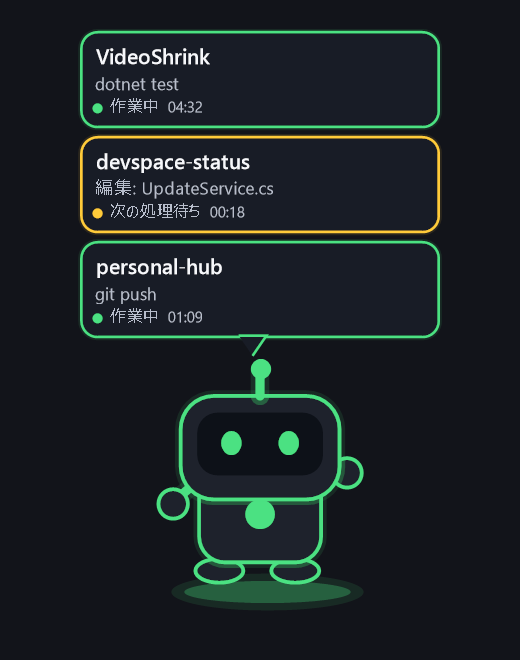
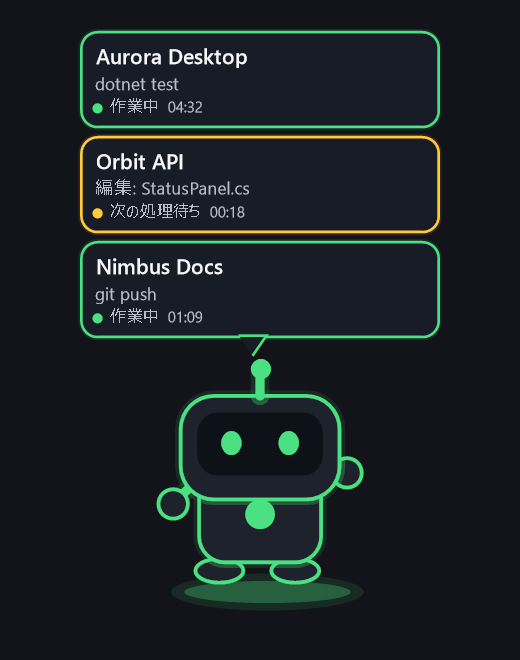
Prepare v0.1.3 stable release

Changed region(s): [[0.1846, 0.2121, 0.5231, 0.303], [0.1846, 0.0606, 0.4615, 0.1212], [0.1846, 0.3939, 0.4308, 0.4242]]

diff --git a/src/DevSpaceStatusPet/UI/PreviewCapture.cs b/src/DevSpaceStatusPet/UI/PreviewCapture.cs
@@ -93,7 +93,7 @@ internal static class PreviewCapture
             Location = new Point(-10000, -10000),
             ShowInTaskbar = false
         };
-        form.SetUpdateStatus("0.1.2", localizer["UpToDate"]);
+        form.SetUpdateStatus("0.1.3", localizer["UpToDate"]);
         using var client = RenderControl(form);
         using var output = RenderWindowFrame(
             client,
@@ -107,13 +107,13 @@ internal static class PreviewCapture
         var settings = CreatePreviewSettings(PetTheme.Classic);
         var store = new SettingsStore(settings);
         var localizer = new Localizer(() => store.Current);
-        using var updateService = new UpdateService("0.1.1");
+        using var updateService = new UpdateService("0.1.2");
         var release = new UpdateRelease(
-            "0.1.2",
-            "v0.1.2",
-            "DevSpace Status Pet v0.1.2",
-            "https://github.com/n5-5n/devspace-status-pet/releases/tag/v0.1.2",
-            "## v0.1.2\r\n\r\n- GitHubから最新版を確認\r\n- ZIPとSHA-256を検証して安全に更新\r\n- Stable／Prereleaseを選択可能\r\n- GitHubプレビューを刷新",
+            "0.1.3",
+            "v0.1.3",
+            "DevSpace Status Pet v0.1.3",
+            "https://github.com/n5-5n/devspace-status-pet/releases/tag/v0.1.3",
+            "## v0.1.3\r\n\r\n- モニターカードを正式追加\r\n- 実機とプレビューの描画を統一\r\n- 公開用サンプルを架空プロジェクトへ変更\r\n- ZIPとSHA-256を検証して安全に更新",
             false,
             DateTimeOffset.Now,
             "https://example.invalid/update.zip",
@@ -211,14 +211,14 @@ internal static class PreviewCapture
         IncludePrereleaseUpdates = false
     };
 
-    private static DevSpaceSnapshot CreateSampleSnapshot()
+    internal static DevSpaceSnapshot CreateSampleSnapshot()
     {
         var now = DateTimeOffset.Now;
         var activities = new[]
         {
             new DevSpaceActivity(
-                "preview:videoshrink",
-                "VideoShrink",
+                "preview:aurora",
+                "Aurora Desktop",
                 ActivityState.Working,
                 OperationKind.Dotnet,
                 "dotnet test",
@@ -226,21 +226,21 @@ internal static class PreviewCapture
                 TimeSpan.FromMinutes(4).Add(TimeSpan.FromSeconds(32)),
                 false,
                 true,
-                "ws_preview_video"),
+                "ws_preview_aurora"),
             new DevSpaceActivity(
-                "preview:status-pet",
-                "devspace-status",
+                "preview:orbit",
+                "Orbit API",
                 ActivityState.Waiting,
                 OperationKind.Edit,
-                "UpdateService.cs",
+                "StatusPanel.cs",
                 now.AddSeconds(-18),
                 TimeSpan.FromSeconds(18),
                 false,
                 true,
-                "ws_preview_pet"),
+                "ws_preview_orbit"),
             new DevSpaceActivity(
-                "preview:hub",
-                "personal-hub",
+                "preview:nimbus",
+                "Nimbus Docs",
                 ActivityState.Working,
                 OperationKind.Git,
                 "git push",
@@ -248,7 +248,7 @@ internal static class PreviewCapture
                 TimeSpan.FromMinutes(1).Add(TimeSpan.FromSeconds(9)),
                 false,
                 true,
-                "ws_preview_hub")
+                "ws_preview_nimbus")
         };
         return new DevSpaceSnapshot(
             ActivityState.Working,

diff --git a/tests/DevSpaceStatusPet.Smoke/Program.cs b/tests/DevSpaceStatusPet.Smoke/Program.cs
@@ -452,12 +452,22 @@ var cleanCardBorder = PetForm.ResolveCleanCardBorder(BubbleColorTheme.Dark);
 Check(cleanCardBackground != cleanCardBorder, "clean monitor-card single border contrast");
 Check(cleanCardBorder.GetBrightness() > cleanCardBackground.GetBrightness(), "clean monitor-card border remains subtle and visible");
 
+var previewSample = PreviewCapture.CreateSampleSnapshot();
+var expectedPreviewProjects = new[] { "Aurora Desktop", "Orbit API", "Nimbus Docs" };
+Check(
+    previewSample.Activities.Select(activity => activity.ProjectName).SequenceEqual(expectedPreviewProjects),
+    "public preview uses fictional sample projects");
+var expectedPreviewDetails = new[] { "dotnet test", "StatusPanel.cs", "git push" };
+Check(
+    previewSample.Activities.Select(activity => activity.Detail).SequenceEqual(expectedPreviewDetails),
+    "public preview uses only approved generic operation details");
+
 var renderNow = DateTimeOffset.Now;
 var renderActivities = new[]
 {
     new DevSpaceActivity(
         "render-working",
-        "VideoShrink",
+        "Aurora Desktop",
         ActivityState.Working,
         OperationKind.Dotnet,
         "dotnet test",
@@ -466,10 +476,10 @@ var renderActivities = new[]
         WorkspaceId: "ws-render-working"),
     new DevSpaceActivity(
         "render-waiting",
-        "devspace-status",
+        "Orbit API",
         ActivityState.Waiting,
         OperationKind.Edit,
-        "PetForm.cs",
+        "StatusPanel.cs",
         renderNow.AddSeconds(-18),
         TimeSpan.FromSeconds(18),
         WorkspaceId: "ws-render-waiting")

diff --git a/RELEASE_NOTES.md b/RELEASE_NOTES.md
@@ -1,35 +1,41 @@
-# DevSpace Status Pet v0.1.3-alpha.3
+# DevSpace Status Pet v0.1.3
 
-実機だけカードやロボットの外周が紫色に見えていた問題を修正しました。
+v0.1.3は、モニターカードと実機描画の改善を正式版へ昇格したリリースです。
 
-## 原因
+## 新しい表示デザイン
 
-これまでは透明部分をマゼンタ色で塗り、その色をWindowsのカラーキーで抜いていました。角丸や斜線のアンチエイリアス部分ではマゼンタと描画色が混ざるため、完全には透明にならず、実機だけ紫色の縁が残っていました。
+- 標準吹き出し
+- モニターカード（ネオン）
+- モニターカード（クリーン）
+- ライト／ダーク配色との自由な組み合わせ
+- 保存操作なしの即時切り替え
 
-GitHubプレビューは暗い背景へ直接描画していたため、この問題が発生せず、実機と見た目が一致していませんでした。
-
-## 修正
+## 実機描画の改善
 
 - マゼンタのカラーキー透過を廃止
 - Windowsのピクセル単位アルファ透過へ移行
-- 実機とGitHubプレビューで同じ透明レイヤーを使用
-- 半透明のアンチエイリアス境界を正しい色と透明度で表示
-- 透明背景に適さないClearTypeをアルファ対応の文字描画へ変更
-- サイズ設定と不透明度設定を新しいレイヤー描画でも維持
+- 実機とGitHubプレビューを同じ描画経路へ統一
+- 角丸や斜線に出ていた紫色のフリンジを解消
+- 半透明アンチエイリアスと文字描画を改善
 
-これにより、クリーンカードの中立色1px枠、状態ライン、クラシックロボットの輪郭色がGitHubプレビューと同じ見た目になります。
+## 公開プレビューのプライバシー改善
 
-## バージョン番号の正規化
+GitHubで使用するすべてのプレビューを、実在しない次のサンプルプロジェクトへ置き換えました。
 
-更新ごとにパッチ番号を1つ上げる運用へ統一しました。旧`v0.3.0-alpha.3`と同じコードを、正規化後の`v0.1.3-alpha.3`として公開しています。
+- Aurora Desktop
+- Orbit API
+- Nimbus Docs
+
+実在するローカル／非公開リポジトリ名、ユーザー名、個人パスはプレビューに含まれません。今後も許可した架空プロジェクト名と汎用処理だけが使われることを自動テストします。
 
 ## 検証
 
 - Releaseビルド：警告0、エラー0
-- 透明レイヤーの表示ピクセル：検出成功
-- 半透明アンチエイリアス境界：検出成功
-- マゼンタ系フリンジ：0ピクセル
 - Clean／Neonカード描画：成功
-- 設定移行と並列表示の既存回帰テスト：成功
+- ピクセル単位アルファ透過：成功
+- マゼンタ系フリンジ：0ピクセル
+- 公開プレビューの架空サンプル検査：成功
+- 設定移行、並列表示、自己インストール／アンインストール：成功
+- GitHub Windows CI：成功
 
-これはPrereleaseです。実機表示を確認した後、問題がなければv0.1.3正式版へ昇格します。
+既存の設定、ペット位置、自動起動設定はそのまま引き継がれます。

diff --git a/README.en.md b/README.en.md
@@ -4,8 +4,7 @@
 
 A Windows monitor that shows DevSpace activity through a system-tray icon and an animated desktop pet.
 
-> **Stable release: v0.1.2 (C# / .NET 8 single executable)**<br>
-> **Development build: v0.1.3-alpha.3 (matching live and preview rendering)**<br>
+> **Stable release: v0.1.3 (C# / .NET 8 single executable)**<br>
 > The legacy PowerShell v0.1.0 release remains available on GitHub Releases as a rollback option.
 
 ## Features
@@ -55,7 +54,7 @@ No separate .NET Runtime installation or PowerShell execution-policy change is r
 
 ## Install
 
-1. Download `DevSpace-Status-Pet-v0.1.2-win-x64.zip` from [GitHub Releases](https://github.com/n5-5n/devspace-status-pet/releases/latest)
+1. Download `DevSpace-Status-Pet-v0.1.3-win-x64.zip` from [GitHub Releases](https://github.com/n5-5n/devspace-status-pet/releases/latest)
 2. Extract the ZIP
 3. Run `DevSpaceStatusPet.exe`
 4. Select **Install / update** from the context menu
@@ -102,11 +101,11 @@ Yellow does not immediately mean the full work session is complete. By default, 
 Activities are separated by workspace ID, so two chats working in the same project still receive separate bubbles.
 
 ```text
-VideoShrink
+Aurora Desktop
 Running tests
 Working  03:21
 
-VideoShrink
+Aurora Desktop
 Editing file
 Waiting for next step  00:08
 ```

diff --git a/README.dotnet.md b/README.dotnet.md
@@ -1,8 +1,8 @@
-# DevSpace Status Pet v0.1.2
+# DevSpace Status Pet v0.1.3
 
 **[日本語](README.dotnet.md) | [English](README.dotnet.en.md)**
 
-DevSpaceの作業状況を、タスクトレイとデスクトップペットで表示するWindows向けモニターです。v0.1.2はC# / .NET 8で作られた正式版で、タスクトレイ、ペット、設定画面、更新機能を1つの自己完結型EXEへ統合しています。
+DevSpaceの作業状況を、タスクトレイとデスクトップペットで表示するWindows向けモニターです。v0.1.3はC# / .NET 8で作られた正式版で、モニターカード、ピクセル単位アルファ透過、安全な更新機能を1つの自己完結型EXEへ統合しています。
 
 ## 必要環境
 

diff --git a/CHANGELOG.md b/CHANGELOG.md
@@ -2,6 +2,16 @@
 
 All notable changes to DevSpace Status Pet are documented here.
 
+## [0.1.3] - 2026-08-01
+
+### Stable release
+
+- Promoted the tested Monitor Card, Clean Card, and per-pixel alpha-rendering work from the v0.1.3 alpha series.
+- Replaced all public preview project names and operation details with fictional sample data.
+- Regenerated the Classic, Neon, Monitor Card, context-menu, settings, and updater previews from the sanitized sample snapshot.
+- Added a regression test that locks future public previews to an approved fictional sample set.
+- Preserved existing settings, startup registration, and the installed application path.
+
 ## [0.1.3-alpha.3] - 2026-08-01
 
 ### Fixed

diff --git a/README.dotnet.en.md b/README.dotnet.en.md
@@ -1,8 +1,8 @@
-# DevSpace Status Pet v0.1.2
+# DevSpace Status Pet v0.1.3
 
 **[日本語](README.dotnet.md) | [English](README.dotnet.en.md)**
 
-A Windows monitor that shows DevSpace activity through a tray icon and an animated desktop pet. v0.1.2 is the stable C# / .NET 8 release and combines the tray monitor, pet, settings window, and updater in one self-contained executable.
+A Windows monitor that shows DevSpace activity through a tray icon and an animated desktop pet. v0.1.3 is the stable C# / .NET 8 release and combines Monitor Cards, per-pixel alpha rendering, settings, and safe updates in one self-contained executable.
 
 ## Requirements
 
